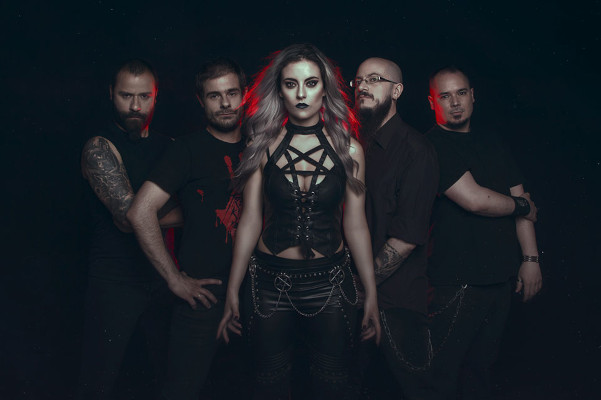
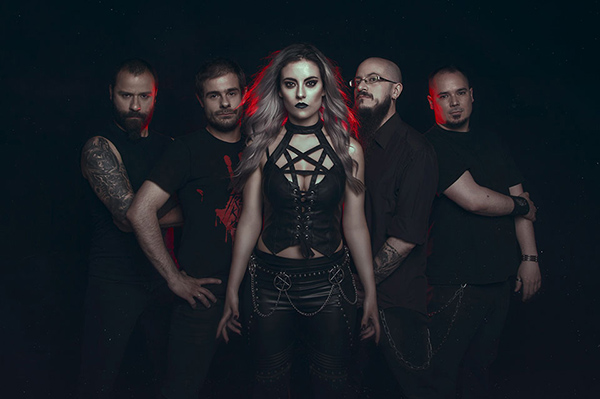
August 9 news. Add lost picture

diff --git a/content/en/blogsEn.js b/content/en/blogsEn.js
@@ -1,4 +1,5 @@
 export default [
+  '20210809-week-news',
   '20210802-week-news',
   '20210730-week-news',
   '20201230-bestOf-2020',

diff --git a/content/es/blogsEs.js b/content/es/blogsEs.js
@@ -1,4 +1,5 @@
 export default [
+  '20210809-week-news',
   '20210802-week-news',
   '20210730-week-news',
   '20201230-bestOf-2020',

diff --git a/content/es/blog/20210809-week-news.md b/content/es/blog/20210809-week-news.md
@@ -1,0 +1,75 @@
+---
+title: 'Noticias de la semana del 9 de Agosto de 2021'
+id: '20210809-week-news'
+date: 2021-08-15T11:57:00-05:00
+categories: ['news']
+tags: ['Dark Moor', 'Roberto Cappa', 'Carlos Delgado', 'Halestorm', 'Alcatraz Festival', 'Epica', 'Kissin Dynamite', 'Jinjer', 'Freedom Call', 'Burning Witches', 'Carnifex', 'Dream Theater', 'Sepultura', 'Fernanda Lira', 'Mathew K. Heafy', 'Danko Jones']
+description: |
+    Novedades de Dark Moor. Adelanto de lo nuevo de Halestorm. Alcatraz Festival. Lanzamientos de la semana.
+---
+
+<h2>Novedades de Dark Moor</h2>
+
+<post-image
+    source="20210809-week-news/carlos-delgado"
+    title="Foto de Rocío Muriel"
+    footer="Foto de Rocío Muriel"
+    footerLink="https://www.instagram.com/rocio.muriel1/"
+/>
+
+<important text="Dark Moor"/> es una de mis bandas favoritas y siempre me gusta leer cosas buenas sobre ellos. Esta semana recibimos dos novedades importantes sobre <important text="Enrik"/> y compañía.
+
+Por un lado nos presentaban al que va a ser el nuevo batería del grupo, <important text="Carlos Delgado"/>, que sustituye a <important text="Roberto Cappa"/> tras 15 años como miembro del grupo. <important text="Carlos Delgado"/> es miembro, entre otros, de <important text="Sphinx"/>, <important text="Cherokee"/> o <important text="Snakeyes"/> y le deseamos toda la suerte del mundo en su nueva andadura en <important text="Dark Moor"/>.
+
+Por su parte, <important text="Roberto Cappa"/> anunció semanas atrás que abandonaba la banda a la vez que confirmaba sus nuevos proyectos, entre los que se incluye su participación en la banda celta madrileña <important text="Kinnia"/>. Desde <important text="Skulls & Ravens"/> le deseamos todo lo mejor en sus proyectos y le damos las gracias por todo lo que ha supuesto para <important text="Dark Moor"/>.
+
+Además, desde las redes sociales, la banda nos anunciaba que ya se encontraba trabajando en el material de lo que será su próximo disco. Estaremos atentos a futuras novedades.
+
+<h2>Adelanto de lo nuevo de Halestorm</h2>
+
+<post-image
+    source="20210809-week-news/halestorm"
+    title="Imagen de la web del grupo"
+    footer="Imagen de la web del grupo"
+    footerLink="https://www.halestormrocks.com/backfromthedead"
+/>
+
+El grupo de Philadelphia nos avisaba que el próximo 18 de Agosto podremos disfrutar de su nuevo single, <important text="Back From the Dead"/>. Este será un adelanto del nuevo disco en el que están trabajando. Recordemos que <important text="Halestorm"/> girará por Europa a principios de 2022 pasando por España en las siguientes fechas:
+
+- 22 de Febrero de 2022. Razzmatazz 2. Barcelona.
+- 23 de Febrero de 2022. La Riviera. Madrid.
+
+<h2>Alcatraz Festival 2021</h2>
+
+<post-image
+    source="20210809-week-news/Alcatraz"
+    title="Imagen de la web del festival"
+    footer="Imagen de la web del festival"
+    footerLink="https://www.alcatraz.be/en/"
+/>
+
+Este fin de semana está celebrándose en Bélgica uno de los grandes festivales de Hard Rock y Metal de Europa. Y en estos tiempos que corren es una noticia aún más importante que implica la vuelta, poco a poco, a la normalidad de la escena musical (quizás el proceso está siendo más lento de lo que querríamos muchos). El <important text="Alcatraz Festival 2021"/> reúne grupos como <important text="Jinjer"/>, <important text="Kissin' Dynamite"/>, <important text="Epica"/>, <important text="Burning Witches"/> o <important text="Freedom Call"/> entre otros muchos que llenan un cartel muy interesante. Espero que la gente que esté asistiendo al festival lo esté pasando en grande.
+
+<blockquote class="instagram-media" data-instgrm-captioned data-instgrm-permalink="https://www.instagram.com/p/CSmPvNRoE4U/?utm_source=ig_embed&amp;utm_campaign=loading" data-instgrm-version="13" style=" background:#FFF; border:0; border-radius:3px; box-shadow:0 0 1px 0 rgba(0,0,0,0.5),0 1px 10px 0 rgba(0,0,0,0.15); margin: 1px; max-width:540px; min-width:326px; padding:0; width:99.375%; width:-webkit-calc(100% - 2px); width:calc(100% - 2px);"><div style="padding:16px;"> <a href="https://www.instagram.com/p/CSmPvNRoE4U/?utm_source=ig_embed&amp;utm_campaign=loading" style=" background:#FFFFFF; line-height:0; padding:0 0; text-align:center; text-decoration:none; width:100%;" target="_blank"> <div style=" display: flex; flex-direction: row; align-items: center;"> <div style="background-color: #F4F4F4; border-radius: 50%; flex-grow: 0; height: 40px; margin-right: 14px; width: 40px;"></div> <div style="display: flex; flex-direction: column; flex-grow: 1; justify-content: center;"> <div style=" background-color: #F4F4F4; border-radius: 4px; flex-grow: 0; height: 14px; margin-bottom: 6px; width: 100px;"></div> <div style=" background-color: #F4F4F4; border-radius: 4px; flex-grow: 0; height: 14px; width: 60px;"></div></div></div><div style="padding: 19% 0;"></div> <div style="display:block; height:50px; margin:0 auto 12px; width:50px;"><svg width="50px" height="50px" viewBox="0 0 60 60" version="1.1" xmlns="https://www.w3.org/2000/svg" xmlns:xlink="https://www.w3.org/1999/xlink"><g stroke="none" stroke-width="1" fill="none" fill-rule="evenodd"><g transform="translate(-511.000000, -20.000000)" fill="#000000"><g><path d="M556.869,30.41 C554.814,30.41 553.148,32.076 553.148,34.131 C553.148,36.186 554.814,37.852 556.869,37.852 C558.924,37.852 560.59,36.186 560.59,34.131 C560.59,32.076 558.924,30.41 556.869,30.41 M541,60.657 C535.114,60.657 530.342,55.887 530.342,50 C530.342,44.114 535.114,39.342 541,39.342 C546.887,39.342 551.658,44.114 551.658,50 C551.658,55.887 546.887,60.657 541,60.657 M541,33.886 C532.1,33.886 524.886,41.1 524.886,50 C524.886,58.899 532.1,66.113 541,66.113 C549.9,66.113 557.115,58.899 557.115,50 C557.115,41.1 549.9,33.886 541,33.886 M565.378,62.101 C565.244,65.022 564.756,66.606 564.346,67.663 C563.803,69.06 563.154,70.057 562.106,71.106 C561.058,72.155 560.06,72.803 558.662,73.347 C557.607,73.757 556.021,74.244 553.102,74.378 C549.944,74.521 548.997,74.552 541,74.552 C533.003,74.552 532.056,74.521 528.898,74.378 C525.979,74.244 524.393,73.757 523.338,73.347 C521.94,72.803 520.942,72.155 519.894,71.106 C518.846,70.057 518.197,69.06 517.654,67.663 C517.244,66.606 516.755,65.022 516.623,62.101 C516.479,58.943 516.448,57.996 516.448,50 C516.448,42.003 516.479,41.056 516.623,37.899 C516.755,34.978 517.244,33.391 517.654,32.338 C518.197,30.938 518.846,29.942 519.894,28.894 C520.942,27.846 521.94,27.196 523.338,26.654 C524.393,26.244 525.979,25.756 528.898,25.623 C532.057,25.479 533.004,25.448 541,25.448 C548.997,25.448 549.943,25.479 553.102,25.623 C556.021,25.756 557.607,26.244 558.662,26.654 C560.06,27.196 561.058,27.846 562.106,28.894 C563.154,29.942 563.803,30.938 564.346,32.338 C564.756,33.391 565.244,34.978 565.378,37.899 C565.522,41.056 565.552,42.003 565.552,50 C565.552,57.996 565.522,58.943 565.378,62.101 M570.82,37.631 C570.674,34.438 570.167,32.258 569.425,30.349 C568.659,28.377 567.633,26.702 565.965,25.035 C564.297,23.368 562.623,22.342 560.652,21.575 C558.743,20.834 556.562,20.326 553.369,20.18 C550.169,20.033 549.148,20 541,20 C532.853,20 531.831,20.033 528.631,20.18 C525.438,20.326 523.257,20.834 521.349,21.575 C519.376,22.342 517.703,23.368 516.035,25.035 C514.368,26.702 513.342,28.377 512.574,30.349 C511.834,32.258 511.326,34.438 511.181,37.631 C511.035,40.831 511,41.851 511,50 C511,58.147 511.035,59.17 511.181,62.369 C511.326,65.562 511.834,67.743 512.574,69.651 C513.342,71.625 514.368,73.296 516.035,74.965 C517.703,76.634 519.376,77.658 521.349,78.425 C523.257,79.167 525.438,79.673 528.631,79.82 C531.831,79.965 532.853,80.001 541,80.001 C549.148,80.001 550.169,79.965 553.369,79.82 C556.562,79.673 558.743,79.167 560.652,78.425 C562.623,77.658 564.297,76.634 565.965,74.965 C567.633,73.296 568.659,71.625 569.425,69.651 C570.167,67.743 570.674,65.562 570.82,62.369 C570.966,59.17 571,58.147 571,50 C571,41.851 570.966,40.831 570.82,37.631"></path></g></g></g></svg></div><div style="padding-top: 8px;"> <div style=" color:#3897f0; font-family:Arial,sans-serif; font-size:14px; font-style:normal; font-weight:550; line-height:18px;"> Ver esta publicación en Instagram</div></div><div style="padding: 12.5% 0;"></div> <div style="display: flex; flex-direction: row; margin-bottom: 14px; align-items: center;"><div> <div style="background-color: #F4F4F4; border-radius: 50%; height: 12.5px; width: 12.5px; transform: translateX(0px) translateY(7px);"></div> <div style="background-color: #F4F4F4; height: 12.5px; transform: rotate(-45deg) translateX(3px) translateY(1px); width: 12.5px; flex-grow: 0; margin-right: 14px; margin-left: 2px;"></div> <div style="background-color: #F4F4F4; border-radius: 50%; height: 12.5px; width: 12.5px; transform: translateX(9px) translateY(-18px);"></div></div><div style="margin-left: 8px;"> <div style=" background-color: #F4F4F4; border-radius: 50%; flex-grow: 0; height: 20px; width: 20px;"></div> <div style=" width: 0; height: 0; border-top: 2px solid transparent; border-left: 6px solid #f4f4f4; border-bottom: 2px solid transparent; transform: translateX(16px) translateY(-4px) rotate(30deg)"></div></div><div style="margin-left: auto;"> <div style=" width: 0px; border-top: 8px solid #F4F4F4; border-right: 8px solid transparent; transform: translateY(16px);"></div> <div style=" background-color: #F4F4F4; flex-grow: 0; height: 12px; width: 16px; transform: translateY(-4px);"></div> <div style=" width: 0; height: 0; border-top: 8px solid #F4F4F4; border-left: 8px solid transparent; transform: translateY(-4px) translateX(8px);"></div></div></div> <div style="display: flex; flex-direction: column; flex-grow: 1; justify-content: center; margin-bottom: 24px;"> <div style=" background-color: #F4F4F4; border-radius: 4px; flex-grow: 0; height: 14px; margin-bottom: 6px; width: 224px;"></div> <div style=" background-color: #F4F4F4; border-radius: 4px; flex-grow: 0; height: 14px; width: 144px;"></div></div></a><p style=" color:#c9c8cd; font-family:Arial,sans-serif; font-size:14px; line-height:17px; margin-bottom:0; margin-top:8px; overflow:hidden; padding:8px 0 7px; text-align:center; text-overflow:ellipsis; white-space:nowrap;"><a href="https://www.instagram.com/p/CSmPvNRoE4U/?utm_source=ig_embed&amp;utm_campaign=loading" style=" color:#c9c8cd; font-family:Arial,sans-serif; font-size:14px; font-style:normal; font-weight:normal; line-height:17px; text-decoration:none;" target="_blank">Una publicación compartida de Alcatraz Festival (@alcatrazfestival)</a></p></div></blockquote> <script async src="//www.instagram.com/embed.js"></script>
+
+<h2>Lanzamientos de la semana</h2>
+
+Tras su último disco, <important text="Ecstasy"/>, publicado en 2018, los alemanes <important text="Kissin' Dynamite"/> han publicado el single que formará parte del su nuevo disco que verá la luz en Enero de 2022.
+
+<youtube-video src="https://www.youtube.com/embed/qGLFjML7RKo" title="Kissin' Dynamite - Not The End Of The Road"/>
+
+<important text="Dream Theater"/> publicará álbum nuevo el próximo 22 de Octubre bajo el nombre de <important text="A View From The Top Of The World"/>. Esta semana nos han dejado una de sus canciones de más de 9 minutos llamada <important text="The Alien"/>
+
+<youtube-video src="https://www.youtube.com/embed/V462IsOV3js" title="Dream Theater - The Alien"/>
+
+<important text="Carnifex"/> acaba de publicar su último EP, <important text="Slit Wrist Savior"/> bajo el sello de <important text="Nuclear Blast"/>
+
+<youtube-video src="https://www.youtube.com/embed/uWnIs1pf_8M" title="Carnifex - Slit Wrist Savior"/>
+
+Los brasileños <important text="Sepultura"/> acaban de lanzar su último disco llamado <important text="Sepulquarta"/>. Un disco nacido durante la pandemia en la que colaboran artistas como <important text="Fernanda Lira"/>, <important text="Danko Jones"/> o <important text="Matthew K. Heafy"/>.
+
+<youtube-video src="https://www.youtube.com/embed/uOcm8Z5axxQ" title="Sepultura - Hatred Aside (feat. Fernanda Lira, Angélica Burns & Mayara Puertas | Quarantine Version)"/>
+
+<h4>Live Loud! Live Wild!</h4>
+
+<apostrophe text="Foto de cabecera de Irene Killmister" link="https://www.instagram.com/irenekilmister.photo/" />

diff --git a/content/en/blog/20210809-week-news.md b/content/en/blog/20210809-week-news.md
@@ -1,0 +1,75 @@
+---
+title: 'News for the week of August 9, 2021'
+id: '20210809-week-news'
+date: 2021-08-15T11:57:00-05:00
+categories: ['news']
+tags: ['Dark Moor', 'Roberto Cappa', 'Carlos Delgado', 'Halestorm', 'Alcatraz Festival', 'Epica', 'Kissin Dynamite', 'Jinjer', 'Freedom Call', 'Burning Witches', 'Carnifex', 'Dream Theater', 'Sepultura', 'Fernanda Lira', 'Mathew K. Heafy', 'Danko Jones']
+description: |
+    News of Dark Moor. New info about Halestorm. Alcatraz Festival. Releases of the week.
+---
+
+<h2>News of Dark Moor</h2>
+
+<post-image
+    source="20210809-week-news/carlos-delgado"
+    title="Picture of Rocío Muriel"
+    footer="Picture of Rocío Muriel"
+    footerLink="https://www.instagram.com/rocio.muriel1/"
+/>
+
+<important text="Dark Moor"/> is one of my favourite bands and I'm always glad to read good stuffs of them. This week we received two news about <important text="Enrik"/> and cia.
+
+In one hand, they introduced us their new drummer <important text="Carlos Delgado"/>, that replaces to <important text="Roberto Cappa"/> after 15 years in the band. <important text="Carlos Delgado"/> is member of bands like <important text="Sphinx"/>, <important text="Cherokee"/> or <important text="Snakeyes"/> and we wish him good luck in <important text="Dark Moor"/>.
+
+On the other hand, <important text="Roberto Cappa"/> announced a few weeks ago their departure of the band at the same time that he announced their new projects as his participation in the celtic folk band called <important text="Kinnia"/>. From <important text="Skulls & Ravens"/> we wish him the best of the luck in these projects and give him the thanks for all that it has meant to <important text="Dark Moor"/>.
+
+Also, from their social media, the band announced that they're working in a new material for the next album. We'll be alert for the next news.
+
+<h2>New info about Halestorm</h2>
+
+<post-image
+    source="20210809-week-news/halestorm"
+    title="Picture of their web"
+    footer="Picture of their web"
+    footerLink="https://www.halestormrocks.com/backfromthedead"
+/>
+
+The band from Pennsylvania announced that the next 18th August we'll enjoy the song called <important text="Back From the Dead"/> that will belong to the new album that they are working on. Let's remember that <important text="Halestorm"/> will be touring through Europe and we'll can see them in this dates:
+
+- February 22, 2022. Razzmatazz 2. Barcelona.
+- February 23, 2022. La Riviera. Madrid.
+
+<h2>Alcatraz Festival 2021</h2>
+
+<post-image
+    source="20210809-week-news/Alcatraz"
+    title="Picture of their web"
+    footer="Picture of their web"
+    footerLink="https://www.alcatraz.be/en/"
+/>
+
+This weekend is celebrating in Belgium one of the greatests festivals of Hard Rock and Heavy Metal over Europe. This is a good new in the Covid-19 age that means the return (step by step) of the normality in the music industry. <important text="Alcatraz Festival 2021"/> unite bands like <important text="Jinjer"/>, <important text="Kissin' Dynamite"/>, <important text="Epica"/>, <important text="Burning Witches"/> or <important text="Freedom Call"/> among others in a very interesting line-up.
+
+<blockquote class="instagram-media" data-instgrm-captioned data-instgrm-permalink="https://www.instagram.com/p/CSmPvNRoE4U/?utm_source=ig_embed&amp;utm_campaign=loading" data-instgrm-version="13" style=" background:#FFF; border:0; border-radius:3px; box-shadow:0 0 1px 0 rgba(0,0,0,0.5),0 1px 10px 0 rgba(0,0,0,0.15); margin: 1px; max-width:540px; min-width:326px; padding:0; width:99.375%; width:-webkit-calc(100% - 2px); width:calc(100% - 2px);"><div style="padding:16px;"> <a href="https://www.instagram.com/p/CSmPvNRoE4U/?utm_source=ig_embed&amp;utm_campaign=loading" style=" background:#FFFFFF; line-height:0; padding:0 0; text-align:center; text-decoration:none; width:100%;" target="_blank"> <div style=" display: flex; flex-direction: row; align-items: center;"> <div style="background-color: #F4F4F4; border-radius: 50%; flex-grow: 0; height: 40px; margin-right: 14px; width: 40px;"></div> <div style="display: flex; flex-direction: column; flex-grow: 1; justify-content: center;"> <div style=" background-color: #F4F4F4; border-radius: 4px; flex-grow: 0; height: 14px; margin-bottom: 6px; width: 100px;"></div> <div style=" background-color: #F4F4F4; border-radius: 4px; flex-grow: 0; height: 14px; width: 60px;"></div></div></div><div style="padding: 19% 0;"></div> <div style="display:block; height:50px; margin:0 auto 12px; width:50px;"><svg width="50px" height="50px" viewBox="0 0 60 60" version="1.1" xmlns="https://www.w3.org/2000/svg" xmlns:xlink="https://www.w3.org/1999/xlink"><g stroke="none" stroke-width="1" fill="none" fill-rule="evenodd"><g transform="translate(-511.000000, -20.000000)" fill="#000000"><g><path d="M556.869,30.41 C554.814,30.41 553.148,32.076 553.148,34.131 C553.148,36.186 554.814,37.852 556.869,37.852 C558.924,37.852 560.59,36.186 560.59,34.131 C560.59,32.076 558.924,30.41 556.869,30.41 M541,60.657 C535.114,60.657 530.342,55.887 530.342,50 C530.342,44.114 535.114,39.342 541,39.342 C546.887,39.342 551.658,44.114 551.658,50 C551.658,55.887 546.887,60.657 541,60.657 M541,33.886 C532.1,33.886 524.886,41.1 524.886,50 C524.886,58.899 532.1,66.113 541,66.113 C549.9,66.113 557.115,58.899 557.115,50 C557.115,41.1 549.9,33.886 541,33.886 M565.378,62.101 C565.244,65.022 564.756,66.606 564.346,67.663 C563.803,69.06 563.154,70.057 562.106,71.106 C561.058,72.155 560.06,72.803 558.662,73.347 C557.607,73.757 556.021,74.244 553.102,74.378 C549.944,74.521 548.997,74.552 541,74.552 C533.003,74.552 532.056,74.521 528.898,74.378 C525.979,74.244 524.393,73.757 523.338,73.347 C521.94,72.803 520.942,72.155 519.894,71.106 C518.846,70.057 518.197,69.06 517.654,67.663 C517.244,66.606 516.755,65.022 516.623,62.101 C516.479,58.943 516.448,57.996 516.448,50 C516.448,42.003 516.479,41.056 516.623,37.899 C516.755,34.978 517.244,33.391 517.654,32.338 C518.197,30.938 518.846,29.942 519.894,28.894 C520.942,27.846 521.94,27.196 523.338,26.654 C524.393,26.244 525.979,25.756 528.898,25.623 C532.057,25.479 533.004,25.448 541,25.448 C548.997,25.448 549.943,25.479 553.102,25.623 C556.021,25.756 557.607,26.244 558.662,26.654 C560.06,27.196 561.058,27.846 562.106,28.894 C563.154,29.942 563.803,30.938 564.346,32.338 C564.756,33.391 565.244,34.978 565.378,37.899 C565.522,41.056 565.552,42.003 565.552,50 C565.552,57.996 565.522,58.943 565.378,62.101 M570.82,37.631 C570.674,34.438 570.167,32.258 569.425,30.349 C568.659,28.377 567.633,26.702 565.965,25.035 C564.297,23.368 562.623,22.342 560.652,21.575 C558.743,20.834 556.562,20.326 553.369,20.18 C550.169,20.033 549.148,20 541,20 C532.853,20 531.831,20.033 528.631,20.18 C525.438,20.326 523.257,20.834 521.349,21.575 C519.376,22.342 517.703,23.368 516.035,25.035 C514.368,26.702 513.342,28.377 512.574,30.349 C511.834,32.258 511.326,34.438 511.181,37.631 C511.035,40.831 511,41.851 511,50 C511,58.147 511.035,59.17 511.181,62.369 C511.326,65.562 511.834,67.743 512.574,69.651 C513.342,71.625 514.368,73.296 516.035,74.965 C517.703,76.634 519.376,77.658 521.349,78.425 C523.257,79.167 525.438,79.673 528.631,79.82 C531.831,79.965 532.853,80.001 541,80.001 C549.148,80.001 550.169,79.965 553.369,79.82 C556.562,79.673 558.743,79.167 560.652,78.425 C562.623,77.658 564.297,76.634 565.965,74.965 C567.633,73.296 568.659,71.625 569.425,69.651 C570.167,67.743 570.674,65.562 570.82,62.369 C570.966,59.17 571,58.147 571,50 C571,41.851 570.966,40.831 570.82,37.631"></path></g></g></g></svg></div><div style="padding-top: 8px;"> <div style=" color:#3897f0; font-family:Arial,sans-serif; font-size:14px; font-style:normal; font-weight:550; line-height:18px;"> Ver esta publicación en Instagram</div></div><div style="padding: 12.5% 0;"></div> <div style="display: flex; flex-direction: row; margin-bottom: 14px; align-items: center;"><div> <div style="background-color: #F4F4F4; border-radius: 50%; height: 12.5px; width: 12.5px; transform: translateX(0px) translateY(7px);"></div> <div style="background-color: #F4F4F4; height: 12.5px; transform: rotate(-45deg) translateX(3px) translateY(1px); width: 12.5px; flex-grow: 0; margin-right: 14px; margin-left: 2px;"></div> <div style="background-color: #F4F4F4; border-radius: 50%; height: 12.5px; width: 12.5px; transform: translateX(9px) translateY(-18px);"></div></div><div style="margin-left: 8px;"> <div style=" background-color: #F4F4F4; border-radius: 50%; flex-grow: 0; height: 20px; width: 20px;"></div> <div style=" width: 0; height: 0; border-top: 2px solid transparent; border-left: 6px solid #f4f4f4; border-bottom: 2px solid transparent; transform: translateX(16px) translateY(-4px) rotate(30deg)"></div></div><div style="margin-left: auto;"> <div style=" width: 0px; border-top: 8px solid #F4F4F4; border-right: 8px solid transparent; transform: translateY(16px);"></div> <div style=" background-color: #F4F4F4; flex-grow: 0; height: 12px; width: 16px; transform: translateY(-4px);"></div> <div style=" width: 0; height: 0; border-top: 8px solid #F4F4F4; border-left: 8px solid transparent; transform: translateY(-4px) translateX(8px);"></div></div></div> <div style="display: flex; flex-direction: column; flex-grow: 1; justify-content: center; margin-bottom: 24px;"> <div style=" background-color: #F4F4F4; border-radius: 4px; flex-grow: 0; height: 14px; margin-bottom: 6px; width: 224px;"></div> <div style=" background-color: #F4F4F4; border-radius: 4px; flex-grow: 0; height: 14px; width: 144px;"></div></div></a><p style=" color:#c9c8cd; font-family:Arial,sans-serif; font-size:14px; line-height:17px; margin-bottom:0; margin-top:8px; overflow:hidden; padding:8px 0 7px; text-align:center; text-overflow:ellipsis; white-space:nowrap;"><a href="https://www.instagram.com/p/CSmPvNRoE4U/?utm_source=ig_embed&amp;utm_campaign=loading" style=" color:#c9c8cd; font-family:Arial,sans-serif; font-size:14px; font-style:normal; font-weight:normal; line-height:17px; text-decoration:none;" target="_blank">Una publicación compartida de Alcatraz Festival (@alcatrazfestival)</a></p></div></blockquote> <script async src="//www.instagram.com/embed.js"></script>
+
+<h2>Releases of the week</h2>
+
+After their last album, <important text="Ecstasy"/>, published in 2018, the germans <important text="Kissin' Dynamite"/> have released the single that will belong to the new album in January 2022.
+
+<youtube-video src="https://www.youtube.com/embed/qGLFjML7RKo" title="Kissin' Dynamite - Not The End Of The Road"/>
+
+<important text="Dream Theater"/> will release a new album called <important text="A View From The Top Of The World"/> next October 22. This week, they give us one of their songs with more than 9 minutes called <important text="The Alien"/>.
+
+<youtube-video src="https://www.youtube.com/embed/V462IsOV3js" title="Dream Theater - The Alien"/>
+
+<important text="Carnifex"/> has just released a new EP called <important text="Slit Wrist Savior"/> under <important text="Nuclear Blast"/> records.
+
+<youtube-video src="https://www.youtube.com/embed/uWnIs1pf_8M" title="Carnifex - Slit Wrist Savior"/>
+
+The brazilians <important text="Sepultura"/> has just released their new album called <important text="Sepulquarta"/>. An album born in this pandemic year with a lot of collaborations like <important text="Fernanda Lira"/>, <important text="Danko Jones"/> or <important text="Matthew K. Heafy"/>.
+
+<youtube-video src="https://www.youtube.com/embed/uOcm8Z5axxQ" title="Sepultura - Hatred Aside (feat. Fernanda Lira, Angélica Burns & Mayara Puertas | Quarantine Version)"/>
+
+<h4>Live Loud! Live Wild!</h4>
+
+<apostrophe text="Header picture by Irene Killmister" link="https://www.instagram.com/irenekilmister.photo/" />

diff --git a/content/en/blog/20210802-week-news.md b/content/en/blog/20210802-week-news.md
@@ -1,5 +1,5 @@
 ---
-title: 'News for the week of August 2'
+title: 'News for the week of August 2, 2021'
 id: '20210802-week-news'
 date: 2021-08-07T11:57:00-05:00
 categories: ['news']
